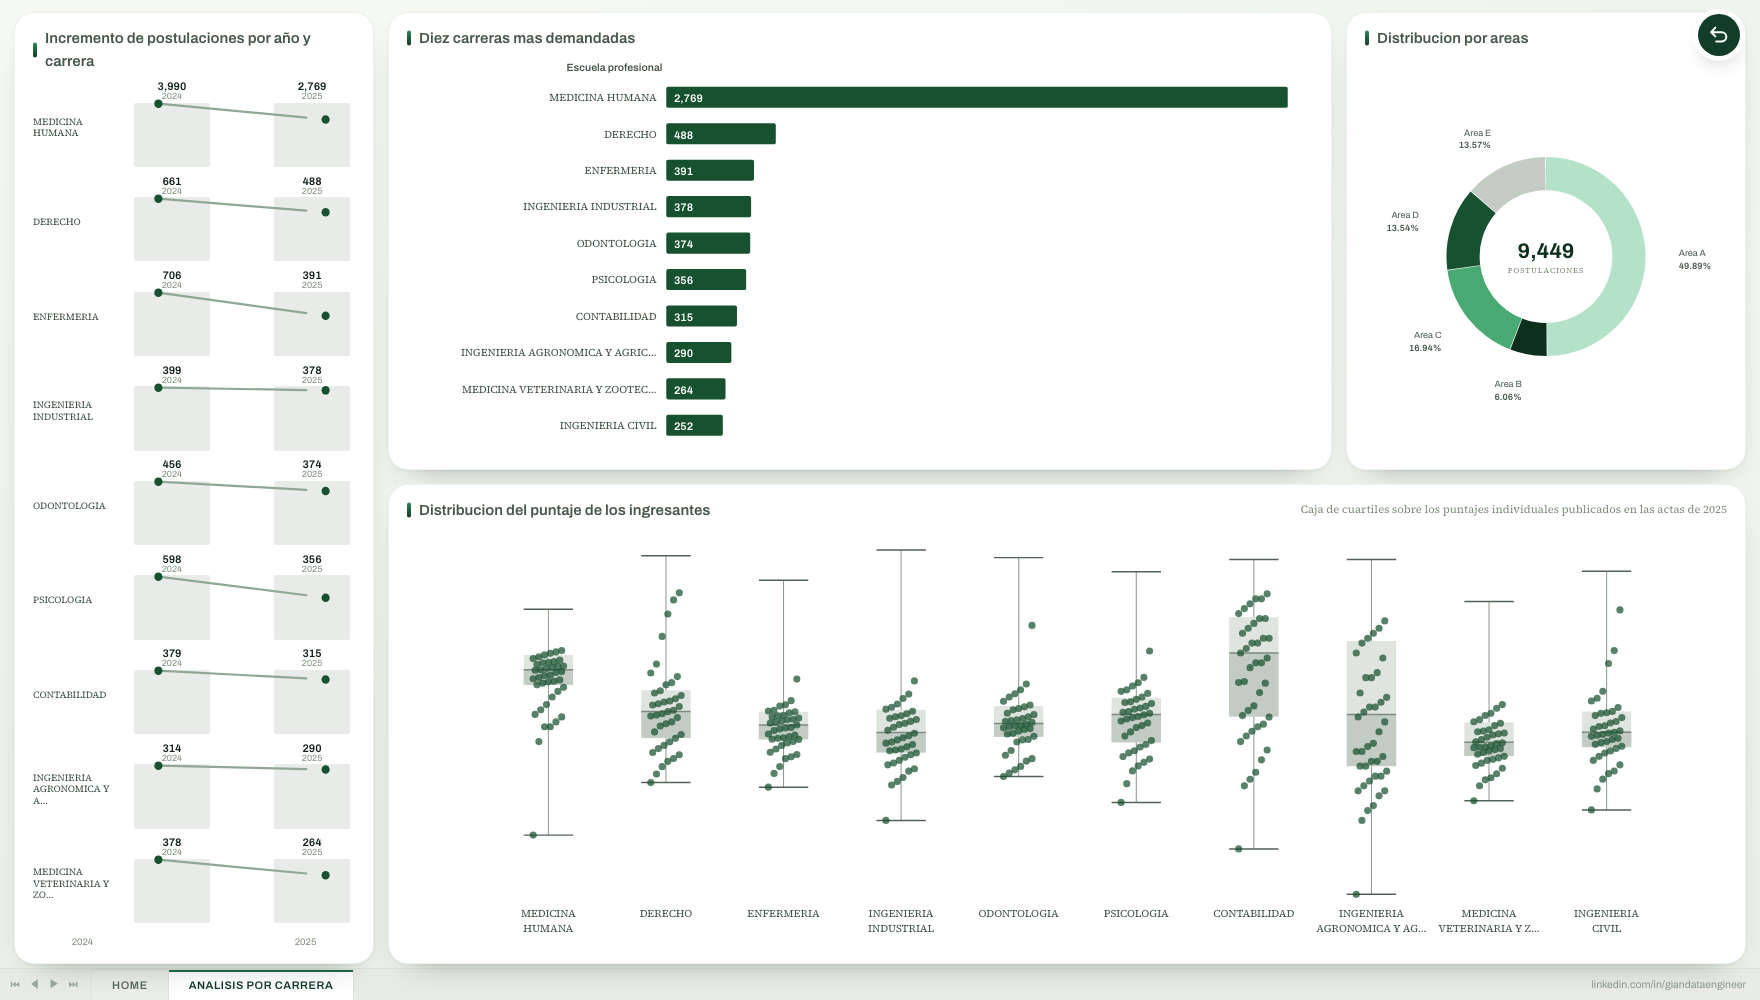
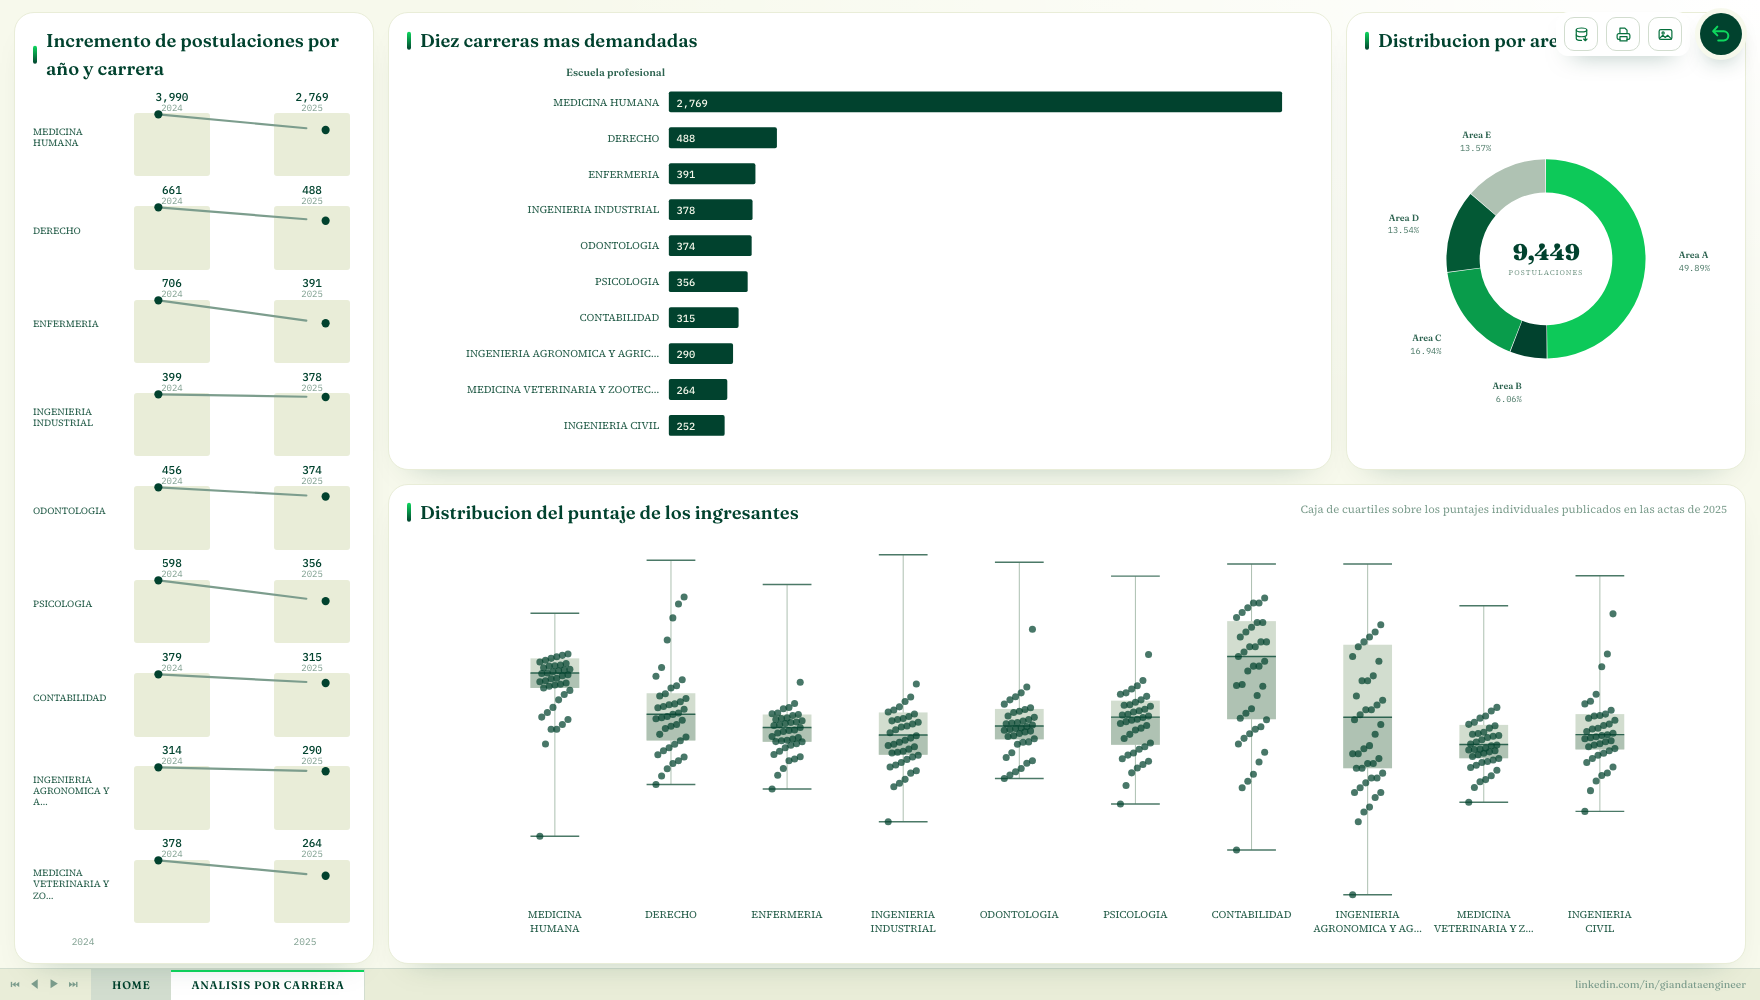
style: verde solo en el menu, tipografia editorial y cabezas redondas
- El lienzo vuelve al hueso institucional; el verde queda reservado a la
  columna del menu, como en el modelo.
- Tipografia: Fraunces en titulos y cifras, Source Serif 4 en texto,
  Archivo para la sigla del escudo (la grotesca del propio logo) e IBM
  Plex Mono en las columnas de datos.
- El rotulo superior va en blanco y el escudo en verde vivo, sin recuadro.
- El panel de puntaje de ingreso crece y pasa a mandar en la hoja:
  circulos mas grandes, astas mas gruesas y cifras mayores.
- Las barras de postulaciones recuperan la cabeza redonda, mas alta que
  la barra.
- LinkedIn queda enmarcado, con la placa del icono cuadrada.

diff --git a/tablero/src/App.css b/tablero/src/App.css
@@ -10,7 +10,7 @@
   flex-direction: column;
   overflow: hidden;
   background:
-    radial-gradient(125% 80% at 100% 0%, #ffffff 0%, transparent 56%),
+    radial-gradient(120% 76% at 100% 0%, #ffffff 0%, transparent 58%),
     var(--color-hueso);
 }
 .lienzo { flex: 1; min-height: 0; padding: 12px 14px 4px; }
@@ -34,13 +34,13 @@
 .pestana {
   border: 1px solid var(--color-piedra-300); border-bottom: 0; border-left: 0;
   background: var(--color-piedra-300);
-  color: var(--color-piedra-700);
+  color: var(--color-hondo);
   font: inherit; font-size: 11px; font-weight: 600; letter-spacing: .06em;
   padding: 0 20px; cursor: pointer;
   transition: background .15s ease, color .15s ease;
 }
 .pestana:first-of-type { border-left: 1px solid var(--color-piedra-300); }
-.pestana:hover { background: var(--color-menta-100); color: var(--color-v700); }
+.pestana:hover { background: var(--color-menta-200); color: var(--color-hondo); }
 .pestana-activa {
   background: var(--color-papel);
   color: var(--color-hondo);
@@ -71,7 +71,8 @@
 .lateral {
   position: relative;
   height: 100%; min-height: 0;
-  background: linear-gradient(168deg, #056f3c 0%, #02503a 44%, #01422e 100%);
+  background: linear-gradient(168deg, #02503a 0%, #01422e 52%, #012c1f 100%);
+  border: 1px solid rgba(14, 216, 94, .22);
   border-radius: 28px;
   padding: clamp(14px, 2vh, 24px) 18px clamp(12px, 1.8vh, 20px);
   color: var(--color-hueso);
@@ -91,17 +92,18 @@
 .lateral-titulo {
   margin: 0; text-align: center;
   font-family: var(--font-titulo);
-  font-size: clamp(22px, 3vh, 33px);
-  font-weight: 400; letter-spacing: .07em; text-transform: uppercase;
+  font-size: clamp(20px, 2.7vh, 30px);
+  font-weight: 600; letter-spacing: .06em; text-transform: uppercase;
   line-height: 1;
+  color: #ffffff;
 }
 .lateral-subtitulo {
   position: relative;
   margin: 3px 0 4px; padding-bottom: 11px; text-align: center;
   font-family: var(--font-display);
   font-size: clamp(8.5px, 1.05vh, 10.5px);
-  font-weight: 600; letter-spacing: .18em; text-transform: uppercase;
-  color: var(--color-menta-300);
+  font-weight: 600; letter-spacing: .2em; text-transform: uppercase;
+  color: #ffffff;
 }
 .lateral-subtitulo::after {
   content: '';
@@ -126,10 +128,10 @@
   filter: drop-shadow(0 8px 22px rgba(14, 216, 94, .35));
 }
 .lateral-sigla {
-  margin: 0;
-  font-family: var(--font-display);
-  font-size: clamp(22px, 3.4vh, 34px);
-  font-weight: 800; letter-spacing: .14em; line-height: 1;
+  margin: 3px 0 0;
+  font-family: var(--font-marca);
+  font-size: clamp(23px, 3.5vh, 35px);
+  font-weight: 600; letter-spacing: .05em; line-height: 1;
   color: var(--color-vivo);
 }
 
@@ -208,13 +210,25 @@
 .lateral-linkedin {
   flex: none;
   display: flex; align-items: center; gap: 11px;
-  color: var(--color-hueso); text-decoration: none;
-  font-family: var(--font-display);
-  font-size: clamp(11px, 1.4vh, 14px); font-weight: 700; letter-spacing: .04em; line-height: 1.15;
-  transition: color .15s ease;
+  padding: clamp(7px, 1vh, 11px) 12px;
+  border: 1px solid rgba(14, 216, 94, .4);
+  border-radius: 10px;
+  background: rgba(1, 66, 46, .55);
+  color: #ffffff; text-decoration: none;
+  font-family: var(--font-titulo);
+  font-size: clamp(11px, 1.4vh, 14px); font-weight: 600; letter-spacing: .03em; line-height: 1.15;
+  transition: background .16s ease, border-color .16s ease, transform .16s ease;
 }
-.lateral-linkedin svg { width: clamp(24px, 3.4vh, 33px); height: clamp(24px, 3.4vh, 33px); flex: none; }
-.lateral-linkedin:hover { color: var(--color-vivo); }
+.lateral-linkedin svg {
+  width: clamp(26px, 3.4vh, 34px); height: clamp(26px, 3.4vh, 34px); flex: none;
+  padding: 5px; border-radius: 5px;
+  background: var(--color-vivo); color: var(--color-hondo);
+}
+.lateral-linkedin:hover {
+  background: rgba(14, 216, 94, .16);
+  border-color: var(--color-vivo);
+  transform: translateY(-1px);
+}
 
 /* ============================================================
    Columna del tablero
@@ -222,7 +236,7 @@
 .tablero {
   height: 100%; min-height: 0;
   display: grid;
-  grid-template-rows: auto auto minmax(0, 1.05fr) minmax(0, 1.25fr);
+  grid-template-rows: auto auto minmax(0, 1.5fr) minmax(0, 1fr);
   gap: clamp(8px, 1.2vh, 14px);
 }
 
@@ -255,7 +269,7 @@
   margin: 1px 0 0;
   display: flex; align-items: baseline; justify-content: center;
   font-family: var(--font-display);
-  font-size: clamp(26px, 4.2vh, 42px); font-weight: 800; letter-spacing: -.02em; line-height: 1.1;
+  font-size: clamp(26px, 4.2vh, 42px); font-weight: 700; letter-spacing: -.015em; line-height: 1.1;
   color: var(--color-hondo);
 }
 .kpi-nulo { font-family: var(--font-body); font-size: 17px; font-style: italic; color: var(--color-piedra-500); }
@@ -354,7 +368,7 @@
 .tarjeta-cab h2 {
   position: relative; margin: 0; padding-left: 13px;
   font-family: var(--font-titulo);
-  font-size: clamp(15px, 2vh, 20px); font-weight: 400; letter-spacing: .005em;
+  font-size: clamp(14px, 1.85vh, 19px); font-weight: 600; letter-spacing: 0;
   color: var(--color-hondo);
 }
 .tarjeta-cab h2::before {
@@ -387,9 +401,9 @@
 .globo span { display: block; color: var(--color-menta-300); }
 .globo .globo-pista { margin-top: 3px; color: var(--color-vivo); font-size: 10.5px; }
 
-.piru-carrera { font-family: var(--font-display); font-size: 11px; font-weight: 600; fill: var(--color-piedra-700); }
-.piru-anio { font-family: var(--font-mono); font-size: 10px; fill: var(--color-piedra-500); }
-.piru-valor { font-family: var(--font-display); font-size: 12.5px; font-weight: 700; fill: var(--color-hondo); }
+.piru-carrera { font-family: var(--font-display); font-size: 11.5px; font-weight: 600; fill: var(--color-piedra-700); }
+.piru-anio { font-family: var(--font-mono); font-size: 11px; fill: var(--color-piedra-500); }
+.piru-valor { font-family: var(--font-display); font-size: 15px; font-weight: 700; fill: var(--color-hondo); }
 
 .cabeza { flex: 1; min-height: 0; display: flex; flex-direction: column; justify-content: space-between; gap: 6px; }
 .cabeza-fila {
@@ -401,19 +415,30 @@
 .cabeza-fila.apagado { opacity: .32; }
 .cabeza-nombre { font-size: 9.5px; letter-spacing: .06em; text-transform: uppercase; color: var(--color-piedra-500); line-height: 1.25; }
 .cabeza-activa .cabeza-nombre { color: var(--color-v600); font-weight: 700; }
-.cabeza-pista { display: block; height: clamp(16px, 2.3vh, 22px); }
+.cabeza-pista {
+  display: flex; align-items: center;
+  height: clamp(24px, 3.4vh, 32px);
+}
 .cabeza-barra {
   position: relative; display: flex; align-items: center;
-  height: 100%; background: var(--color-hondo);
-  border-radius: 3px; min-width: 42px;
+  height: clamp(16px, 2.3vh, 22px);
+  background: var(--color-hondo);
+  border-radius: 3px 0 0 3px;
+  min-width: 46px;
 }
 .cabeza-fila:hover .cabeza-barra, .cabeza-fila:hover .cabeza-punto { background: var(--color-v600); }
-.cabeza-valor { padding-left: 8px; font-family: var(--font-mono); font-size: 11px; font-weight: 500; color: var(--color-hueso); }
+.cabeza-valor {
+  padding-left: 9px;
+  font-family: var(--font-mono); font-size: 11px; font-weight: 500;
+  color: var(--color-hueso);
+}
+/* Cabeza redonda, mas alta que la barra, como en el modelo */
 .cabeza-punto {
-  position: absolute; right: calc(clamp(16px, 2.3vh, 22px) / -2); top: 50%;
-  width: clamp(16px, 2.3vh, 22px); height: clamp(16px, 2.3vh, 22px);
-  transform: translateY(-50%);
-  border-radius: 50%; background: var(--color-hondo);
+  position: absolute; top: 50%; right: 0;
+  width: clamp(24px, 3.4vh, 32px); height: clamp(24px, 3.4vh, 32px);
+  transform: translate(50%, -50%);
+  border-radius: 50%;
+  background: var(--color-hondo);
 }
 
 .top-cabecera { font-family: var(--font-display); font-size: 11px; font-weight: 600; fill: var(--color-piedra-700); }
@@ -524,7 +549,7 @@
   margin: 0; padding: 0 6px 2px;
   font-size: clamp(8px, .95vh, 9.5px);
   line-height: 1.45; letter-spacing: .004em;
-  color: var(--color-piedra-500);
+  color: var(--color-piedra-600);
   text-align: justify; text-wrap: pretty;
 }
 
@@ -552,7 +577,7 @@
   border: 0; border-radius: 50%;
   background: var(--color-hondo); color: var(--color-vivo);
   cursor: pointer;
-  box-shadow: 0 0 0 5px rgba(247, 249, 236, .92), 0 12px 24px -12px rgba(1, 66, 46, .95);
+  box-shadow: 0 0 0 5px rgba(247, 249, 236, .95), 0 12px 24px -12px rgba(1, 66, 46, .9);
   transition: transform .18s ease, background .18s ease;
 }
 .boton-volver:hover { transform: rotate(-18deg); background: var(--color-v600); }

diff --git a/tablero/src/components/charts.jsx b/tablero/src/components/charts.jsx
@@ -30,20 +30,20 @@ function useGlobo() {
 /* ============ Puntajes maximos y minimos (piruletas verticales) ============ */
 export function Piruletas({ datos, ciclo, activa, onCarrera }) {
   const [enlazar, Globo] = useGlobo();
-  const ancho = 1180, alto = 340;
-  const base = alto - 22, techo = 96;
+  const ancho = 1180, alto = 300;
+  const base = alto - 20, techo = 86;
   const max = Math.max(...datos.map(d => d.max), 1);
   const grupo = (ancho - 40) / Math.max(datos.length, 1);
   const y = v => base - (v / max) * (base - techo);
-  const r = Math.min(23, grupo / 5.4);
+  const r = Math.min(31, grupo / 4.2);
 
   return (
     <div className="lienzo-relativo">
       <svg viewBox={`0 0 ${ancho} ${alto}`} className="grafico-svg" preserveAspectRatio="xMidYMid meet" role="img" aria-label="Puntajes maximos y minimos por carrera">
         {datos.map((d, i) => {
           const cx = 20 + grupo * i + grupo / 2;
-          const xMin = cx - grupo * 0.17;
-          const xMax = cx + grupo * 0.17;
+          const xMin = cx - grupo * 0.19;
+          const xMax = cx + grupo * 0.19;
             const apagada = activa && activa !== d.carrera;
           return (
             <g
@@ -62,14 +62,14 @@ export function Piruletas({ datos, ciclo, activa, onCarrera }) {
               )}
             >
               <rect x={cx - grupo / 2} y="0" width={grupo} height={alto} fill="transparent" />
-              <text x={cx} y="16" textAnchor="middle" className="piru-carrera">{corta(d.carrera, 22)}</text>
+              <text x={cx} y="16" textAnchor="middle" className="piru-carrera">{corta(d.carrera, 16)}</text>
               <text x={cx} y="30" textAnchor="middle" className="piru-anio">{ciclo}</text>
 
-              <rect x={xMin - 5} y={y(d.min)} width="10" height={base - y(d.min)} fill={GRIS} />
+              <rect x={xMin - 7} y={y(d.min)} width="14" height={base - y(d.min)} fill={GRIS} />
               <circle cx={xMin} cy={y(d.min)} r={r} fill={GRIS} />
               <text x={xMin} y={y(d.min) - r - 8} textAnchor="middle" className="piru-valor">{dec(d.min)}</text>
 
-              <rect x={xMax - 5} y={y(d.max)} width="10" height={base - y(d.max)} fill={VERDE} />
+              <rect x={xMax - 7} y={y(d.max)} width="14" height={base - y(d.max)} fill={VERDE} />
               <circle cx={xMax} cy={y(d.max)} r={r} fill={VERDE} />
               <text x={xMax} y={y(d.max) - r - 8} textAnchor="middle" className="piru-valor">{dec(d.max)}</text>
             </g>

diff --git a/tablero/src/index.css b/tablero/src/index.css
@@ -37,10 +37,13 @@
 
   --color-papel: #ffffff;
 
-  --font-display: "Bricolage Grotesque", "Archivo", "Helvetica Neue", Arial, sans-serif;
-  --font-titulo: "Instrument Serif", "Iowan Old Style", Georgia, serif;
-  --font-body: "Instrument Sans", "Helvetica Neue", Arial, sans-serif;
+  /* Tipografia editorial: nada de sans de sistema */
+  --font-titulo: "Fraunces", "Iowan Old Style", "Palatino", Georgia, serif;
+  --font-display: "Fraunces", "Iowan Old Style", Georgia, serif;
+  --font-body: "Source Serif 4", "Iowan Old Style", Georgia, serif;
   --font-mono: "IBM Plex Mono", ui-monospace, Menlo, monospace;
+  /* La sigla del escudo va en la grotesca del logo, no en la serif */
+  --font-marca: "Archivo", "Helvetica Neue", Arial, sans-serif;
 }
 
 html, body, #root { height: 100%; }
@@ -55,6 +58,9 @@ body {
 }
 
 .tab-num { font-variant-numeric: tabular-nums; font-feature-settings: "tnum" 1; }
+
+/* Fraunces es variable: se fija el eje optico para que el texto chico no engorde */
+.fr-suave { font-variation-settings: "SOFT" 20, "WONK" 1; }
 
 .scroll-fino::-webkit-scrollbar { width: 9px; height: 9px; }
 .scroll-fino::-webkit-scrollbar-thumb { background: var(--color-piedra-300); border-radius: 99px; }

diff --git a/tablero/index.html b/tablero/index.html
@@ -7,7 +7,7 @@
     <meta name="description" content="Quien postula, quien ingresa y con cuanto en la Universidad Catolica de Santa Maria, procesos 2021 a 2027." />
     <link rel="preconnect" href="https://fonts.googleapis.com" />
     <link rel="preconnect" href="https://fonts.gstatic.com" crossorigin />
-    <link href="https://fonts.googleapis.com/css2?family=Bricolage+Grotesque:opsz,wght@12..96,500;12..96,600;12..96,700;12..96,800&family=Instrument+Sans:wght@400;500;600;700&family=Instrument+Serif:ital@0;1&family=IBM+Plex+Mono:wght@400;500;600&display=swap" rel="stylesheet" />
+    <link href="https://fonts.googleapis.com/css2?family=Archivo:wght@500;600;700&family=Fraunces:opsz,wght@9..144,400;9..144,600;9..144,700;9..144,900&family=Source+Serif+4:opsz,wght@8..60,400;8..60,600;8..60,700&family=IBM+Plex+Mono:wght@400;500;600&display=swap" rel="stylesheet" />
     <title>Admision UCSM en datos</title>
   </head>
   <body>
